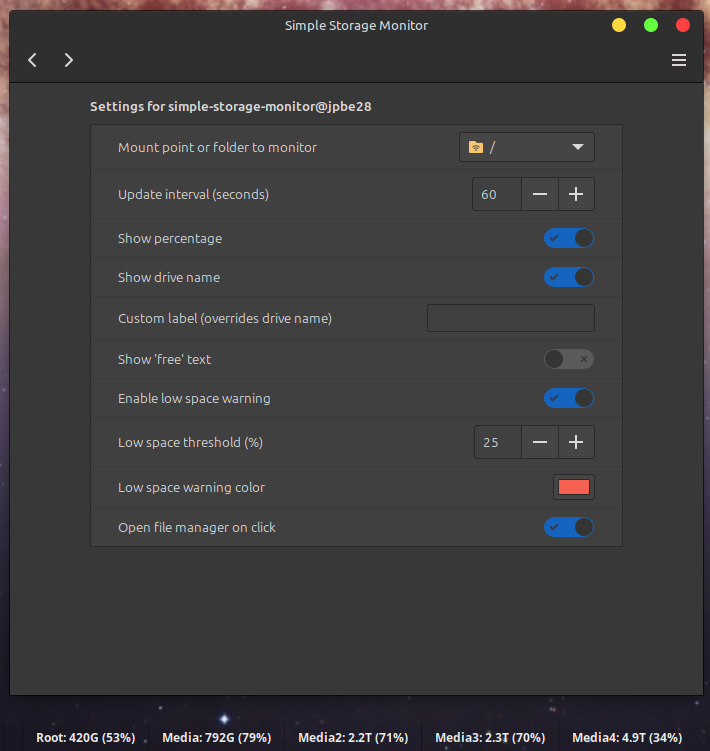
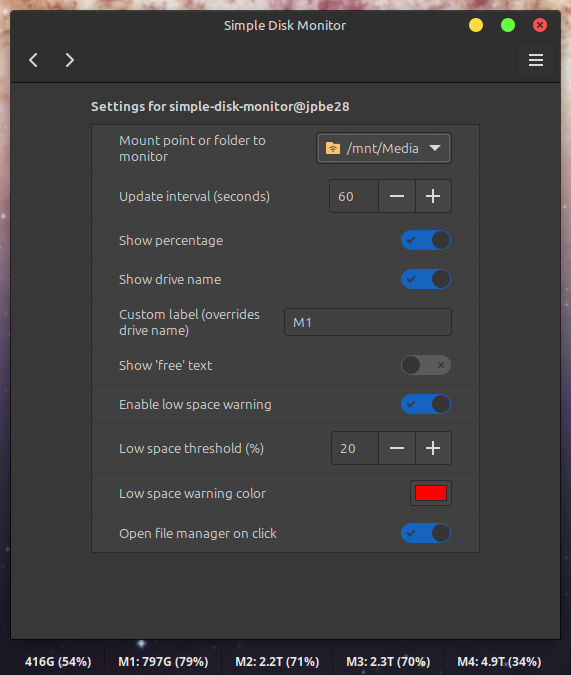
Rename to simjple disk manager

diff --git a/applet.js b/applet.js
@@ -43,7 +43,7 @@ DriveSpaceApplet.prototype = {
         this.settings.bind("low-space-threshold", "lowSpaceThreshold", () => this._onSettingsChanged());
         this.settings.bind("low-space-color", "lowSpaceColor", () => this._onSettingsChanged());
 
-        this.set_applet_tooltip("Simple Storage Monitor");
+        this.set_applet_tooltip("Simple Disk Monitor");
         this.set_applet_label("Loading...");
 
         // Context menu

diff --git a/README.md b/README.md
@@ -1,8 +1,8 @@
-# Simple Storage Monitor Applet
+# Simple Disk Monitor Applet
 
 A Cinnamon panel applet that displays the available space on a selected folder or mounted drive.
 
-![Simple Storage Monitor Applet](screenshot.png)
+![Simple Disk Monitor Applet](screenshot.png)
 
 ## Features
 
@@ -24,7 +24,7 @@ Install it directly from the Cinnamon applet menu:
 1. Right-click on your Cinnamon panel
 2. Select "Add applets to the panel"
 3. Click on "Download" tab
-4. Search for "Simple Storage Monitor"
+4. Search for "Simple Disk Monitor"
 5. Click "Install" next to the applet
 6. The applet will be automatically installed and ready to use
 
@@ -32,7 +32,7 @@ Install it directly from the Cinnamon applet menu:
 
 1. Run the installation script:
    ```bash
-   cd /path/to/SimpleStorageMonitor
+   cd /path/to/SimpleDiskMonitor
    chmod +x install.sh
    ./install.sh
    ```
@@ -41,7 +41,7 @@ Install it directly from the Cinnamon applet menu:
 
 1. Copy the applet directory to your Cinnamon applets folder:
    ```bash
-   cp -r /path/to/SimpleStorageMonitor ~/.local/share/cinnamon/applets/simple-storage-monitor@jpbe28
+   cp -r /path/to/SimpleDiskMonitor ~/.local/share/cinnamon/applets/simple-disk-monitor@jpbe28
    ```
 
 2. Reload Cinnamon:
@@ -51,7 +51,7 @@ Install it directly from the Cinnamon applet menu:
 3. Add the applet to your panel:
    - Right-click on the panel
    - Select "Applets"
-   - Find "Simple Storage Monitor" and click "Add"
+   - Find ""Simple Disk Monitor"" and click "Add"
 
 **Note:** For Methods 2 and 3, you'll need to download the applet files manually (from GitHub releases or by cloning the repository).
 
